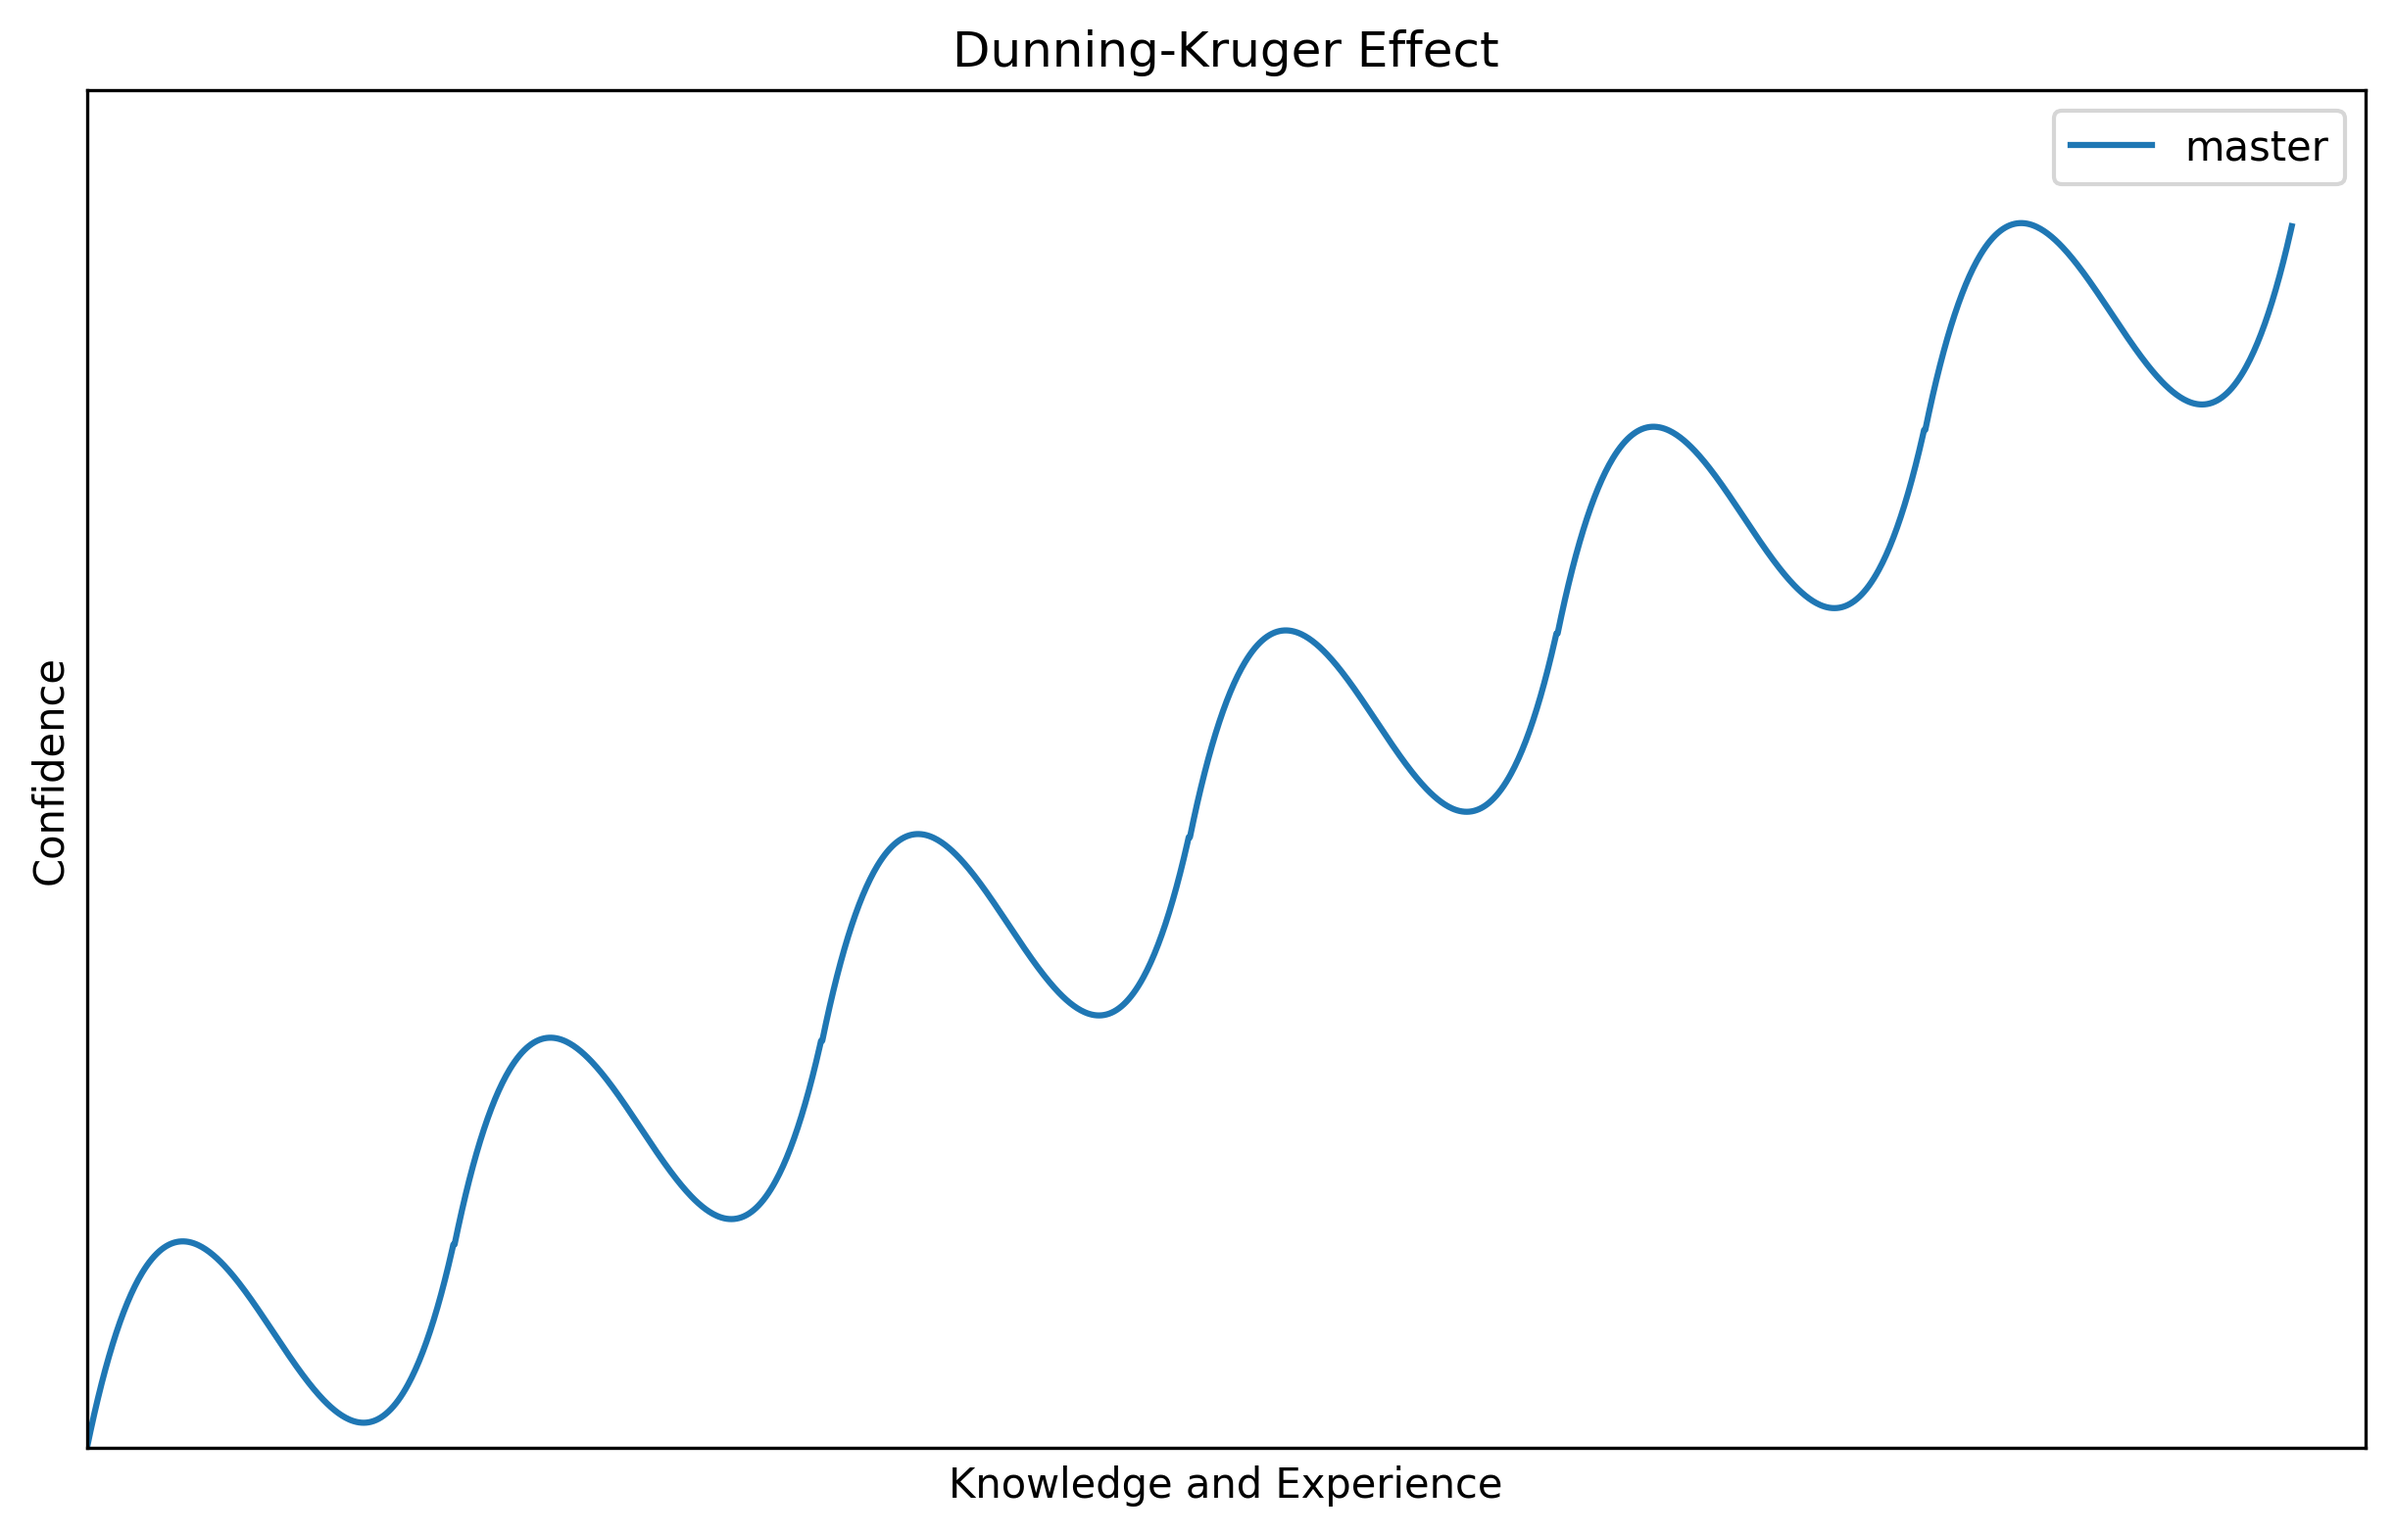
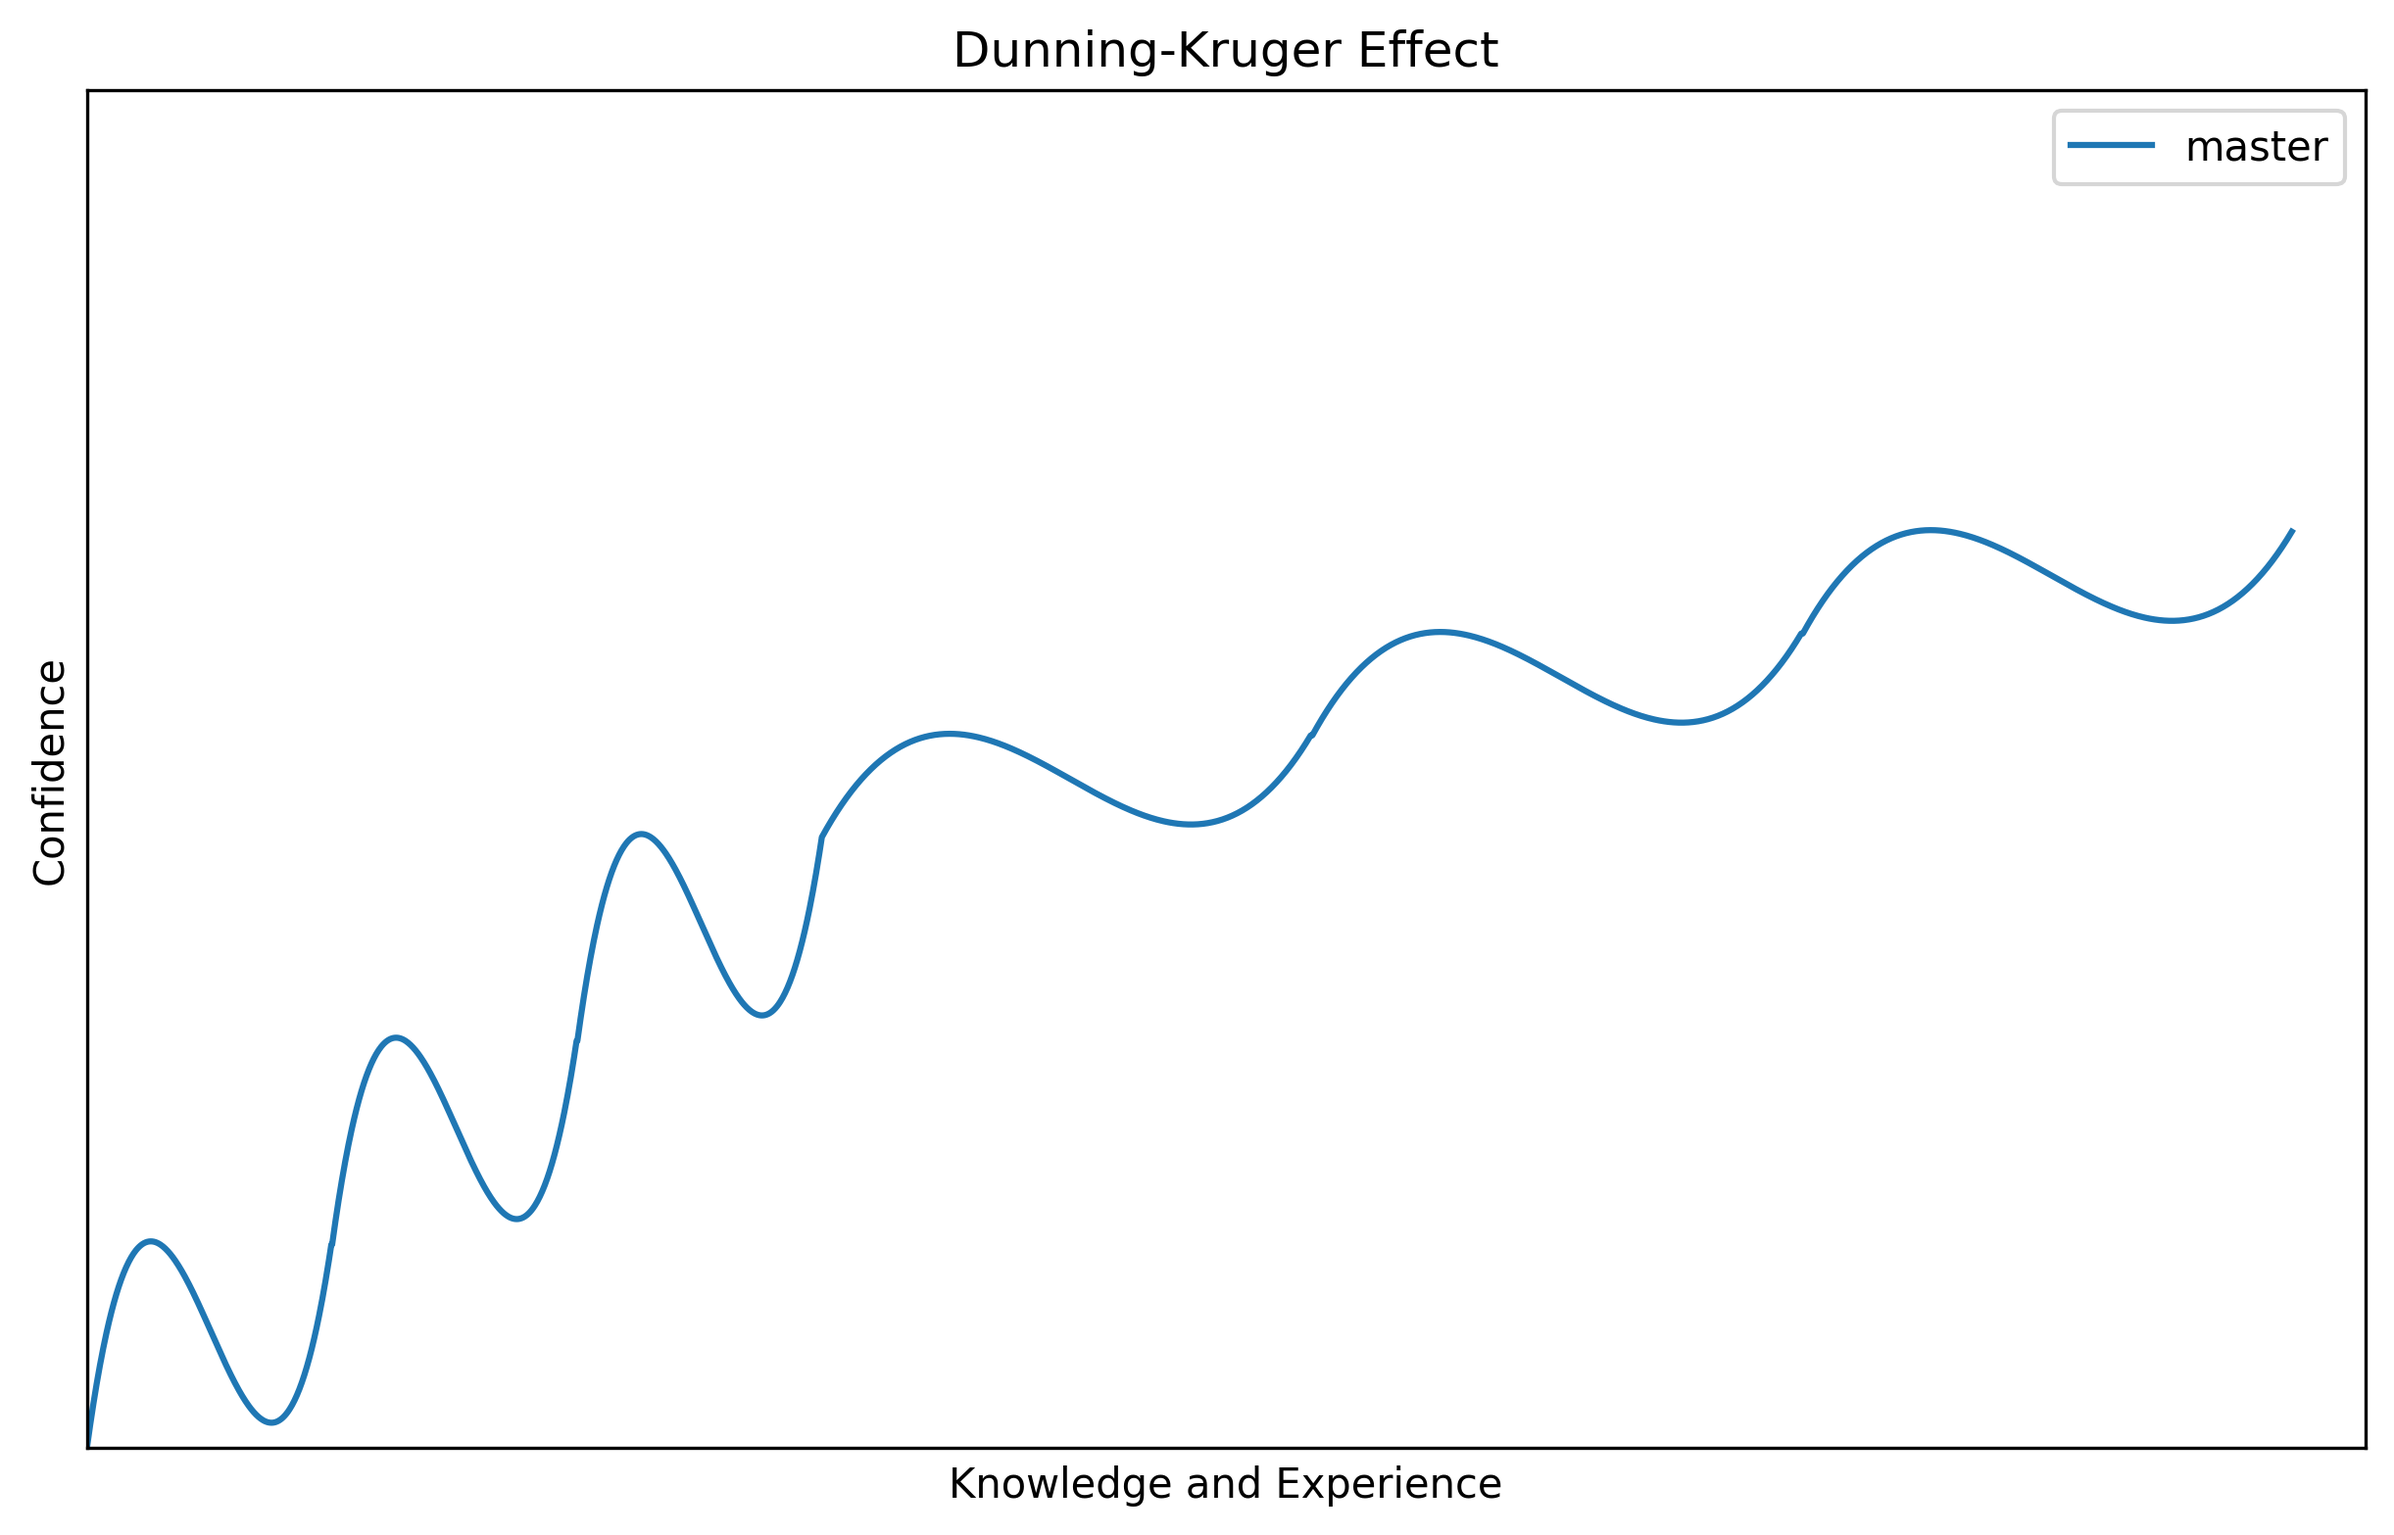
update master

diff --git a/master.py b/master.py
@@ -10,18 +10,35 @@ if __name__ == "__main__":
     # 補間関数を作成
     f = interp1d(x, y, kind="cubic")
 
-    # 0から6までのx座標を生成
-    xnew = np.linspace(0, 6, 1800)
+    # 0から2までのx座標を生成
+    xnew_1 = np.linspace(0, 2, 900)
 
     # ynewを初期化
-    ynew = f(np.linspace(0, 1, 300))
+    ynew_1 = f(np.linspace(0, 1, 300))
 
     # パターンを繰り返す
-    for i in range(1, 6):
-        start_y = ynew[-1]  # 前の区間の最終値を取得
+    for i in range(1, 2):
+        start_y = ynew_1[-1]  # 前の区間の最終値を取得
         y_segment = f(np.linspace(0, 1, 300)) + \
             (start_y - y[0])  # 各区間を前の区間の終点から始まるように調整
-        ynew = np.concatenate([ynew, y_segment])
+        ynew_1 = np.concatenate([ynew_1, y_segment])
+
+    # 2から6までのx座標を生成
+    xnew_2 = np.linspace(2, 6, 900)
+
+    # ynewを初期化
+    ynew_2 = f(np.linspace(0, 1, 300)) + ynew_1[-1] - y[0]
+
+    # パターンを繰り返す
+    for i in range(1, 4):
+        start_y = ynew_2[-1]  # 前の区間の最終値を取得
+        y_segment = f(np.linspace(0, 1, 300)) * 0.5 + (start_y -
+                                                       y[0] * 0.5)  # 各区間を前の区間の終点から始まるように調整し、yの上昇幅を半分にする
+        ynew_2 = np.concatenate([ynew_2, y_segment])
+
+    # 合体
+    xnew = np.concatenate([xnew_1, xnew_2])
+    ynew = np.concatenate([ynew_1, ynew_2])
 
     # グラフの生成
     plt.figure(figsize=(10, 6))
